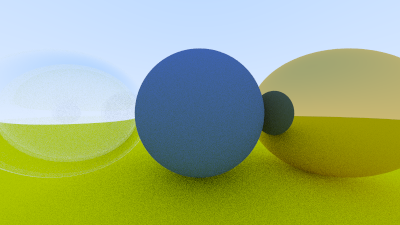
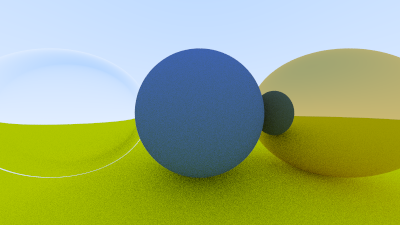
revert commit

Changed region(s): [[0.0, 0.5289, 0.36, 0.8089]]

diff --git a/src/material.rs b/src/material.rs
@@ -1,4 +1,4 @@
-use crate::{vec3, Color, Float, HitRecord, Ray, Vec3, random};
+use crate::{vec3, Color, Float, HitRecord, Ray, Vec3};
 
 pub trait Material {
     fn scatter(&self, ray_in: &Ray, hit_rec: &HitRecord) -> Option<MaterialRecord>;
@@ -84,13 +84,17 @@ impl Dielectric {
             index_of_refraction,
         }
     }
+}
 
-    fn shlicks_approx(cosine:Float,refraction_index:Float)->Float{
-       let r_0 = (1.0-refraction_index)/ (1.0 + refraction_index); 
-       let r_0 = r_0*r_0;
+fn refract(uv: &Vec3, n: &Vec3, etai_over_etat: Float) -> Vec3 {
+    let uv = *uv;
+    let uv_2 = -uv;
+    let cost_theta = Float::min(vec3::dot(&uv_2, n), 1.0);
 
-       r_0 + (1.0-r_0)*Float::powi(1.0-cosine,5)
-    }
+    let r_out_perp = etai_over_etat * (uv + cost_theta * n);
+    let r_out_parallel = -Float::sqrt(Float::abs(1.0 - r_out_perp.lenght_squared())) * n;
+
+    r_out_perp + r_out_parallel
 }
 
 impl Material for Dielectric {
@@ -103,22 +107,22 @@ impl Material for Dielectric {
         };
 
         let unit_direction = vec3::unit_vector(&ray_in.direction);
-
-        let unit_direction_2 = -unit_direction;
-        let cost_theta = Float::min(vec3::dot(&unit_direction_2, &hit_rec.normal), 1.0);
+        let negative_unit = -unit_direction;
+        let cost_theta = Float::min(vec3::dot(&negative_unit, &hit_rec.normal), 1.0);
         let sin_theta = Float::sqrt(1.0 - cost_theta * cost_theta);
 
         let can_refract = refraction_radio * sin_theta <= 1.0;
-        let reflactance = Self::shlicks_approx(cost_theta,refraction_radio);
-        let direction = match can_refract && reflactance < random(){
-            true => {
-                // refract
-                let r_out_perp = refraction_radio * (unit_direction + cost_theta * hit_rec.normal);
-                let r_out_parallel =
-                    -Float::sqrt(Float::abs(1.0 - r_out_perp.lenght_squared())) * hit_rec.normal;
 
-                r_out_perp + r_out_parallel
-            }
+        let refract = || {
+            let r_out_perp = refraction_radio * (unit_direction + cost_theta * hit_rec.normal);
+            let r_out_parallel =
+                -Float::sqrt(Float::abs(1.0 - r_out_perp.lenght_squared())) * hit_rec.normal;
+
+            r_out_perp + r_out_parallel
+        };
+
+        let direction = match can_refract {
+            true => refract(),
             false => vec3::reflect(&unit_direction,&hit_rec.normal),
         };
 
